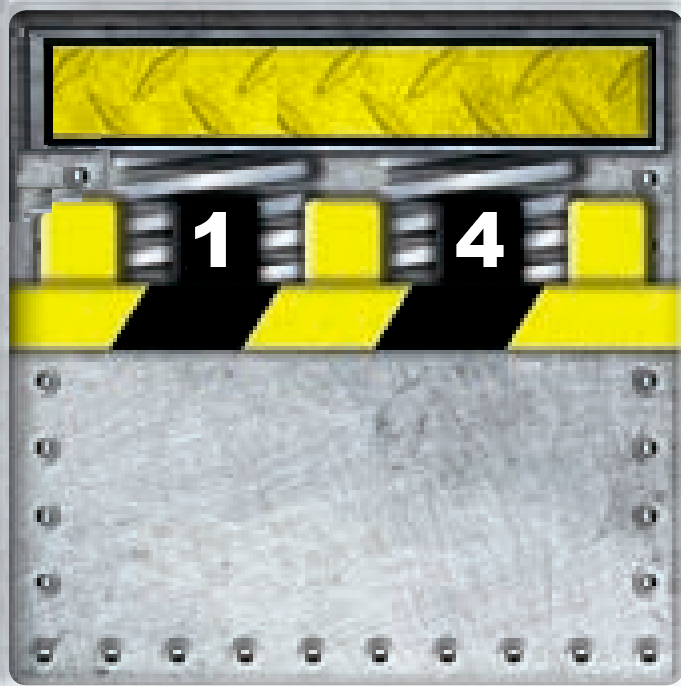
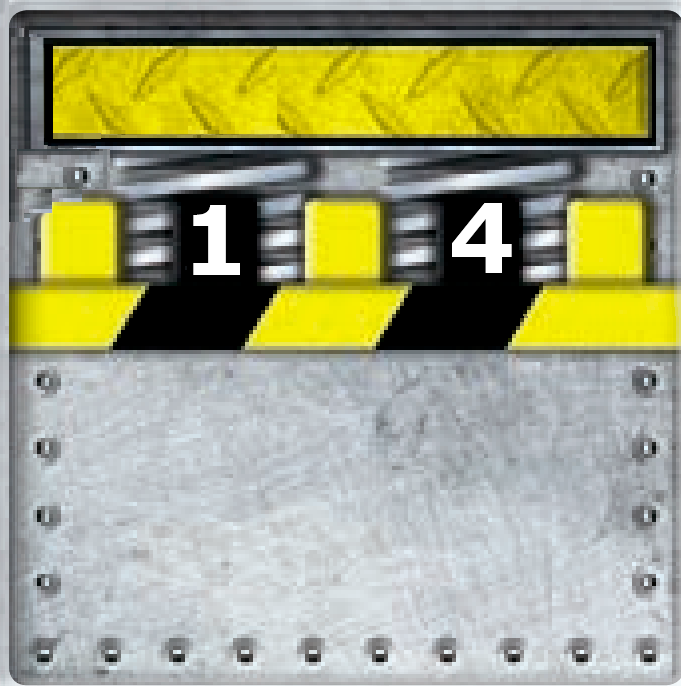
Update PushPanel view
- Added getPushPanelLabels() to PushPanel
- Added pictures needed for visualizing push panels
- Updated json file to be compatible with changes in PushPanel

diff --git a/roborally/src/main/java/roborally/view/SpaceView.java b/roborally/src/main/java/roborally/view/SpaceView.java
@@ -106,8 +106,10 @@ public class SpaceView extends StackPane implements ViewObserver {
                 case NORTH -> 180;
                 case EAST -> 270;
             };
-            this.setStyle(pushPanel.pushPanelStart + pushPanel.pushPanelInsert + pushPanel.pushPanelEnd +
-                    SPACE_HEIGHT + " " + SPACE_WIDTH + "; -fx-rotate: " + tileAngle + ";");
+
+            int[] registers = pushPanel.getPushPanelLabels();
+            this.setStyle("-fx-background-image: url('graphics/PushPanel" + registers[0] + "-" + registers[1] + ".png');" +
+                    " -fx-background-size: " + SPACE_HEIGHT + " " + SPACE_WIDTH + "; -fx-rotate: " + tileAngle + ";");
         }
         else if(space.getActions().size() > 0 && space.getActions().get(0) instanceof Pit pit) {
             this.setStyle("-fx-background-image: url('graphics/Pit.png'); -fx-background-size: " +

diff --git a/Model_data/src/main/java/model/boardElements/PushPanel.java b/Model_data/src/main/java/model/boardElements/PushPanel.java
@@ -9,9 +9,6 @@ import model.Space;
 public class PushPanel extends SpaceElement {
     private Heading heading;
     private int[] pushPanelLabel;
-    public String pushPanelStart = "-fx-background-image: url('graphics/";
-    public String pushPanelInsert;
-    public String pushPanelEnd = "'); -fx-background-size: ";
 
     public Heading getHeading() {
         return heading;
@@ -65,5 +62,17 @@ public class PushPanel extends SpaceElement {
                 }
             }
         }
+    }
+
+    public int[] getPushPanelLabels() {
+        int[] registers = new int[] {0, 0};
+        int registerIndex = 0;
+        for (int i = 0; i < pushPanelLabel.length; i++) {
+            if (pushPanelLabel[i] == 1) {
+                registers[registerIndex] = i + 1;
+                registerIndex++;
+            }
+        }
+        return registers;
     }
 }
